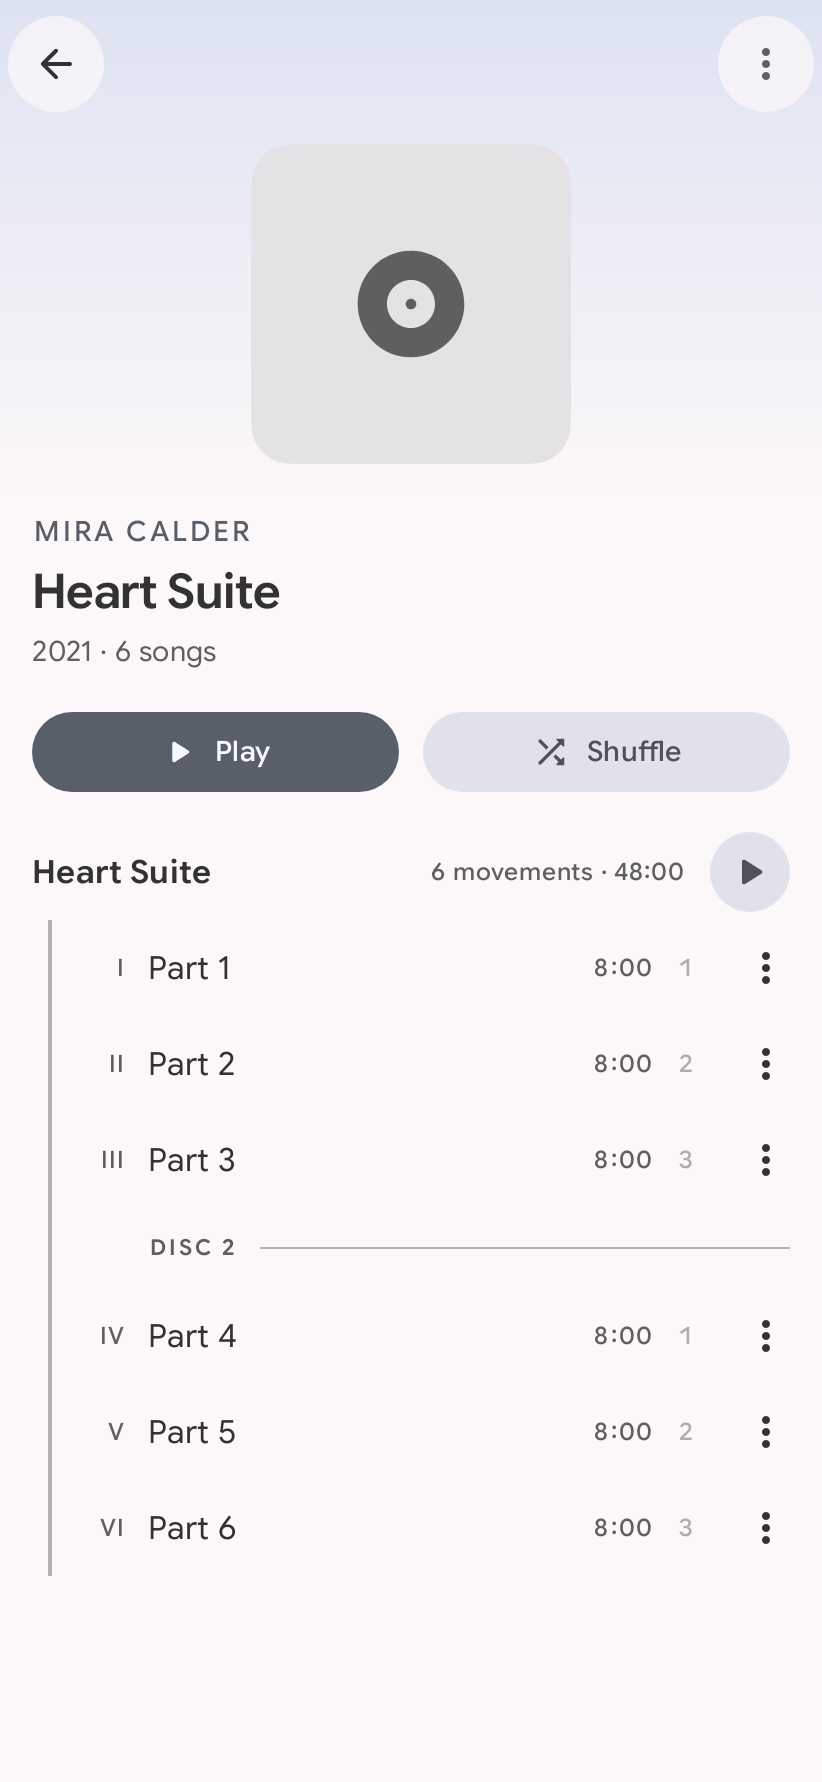
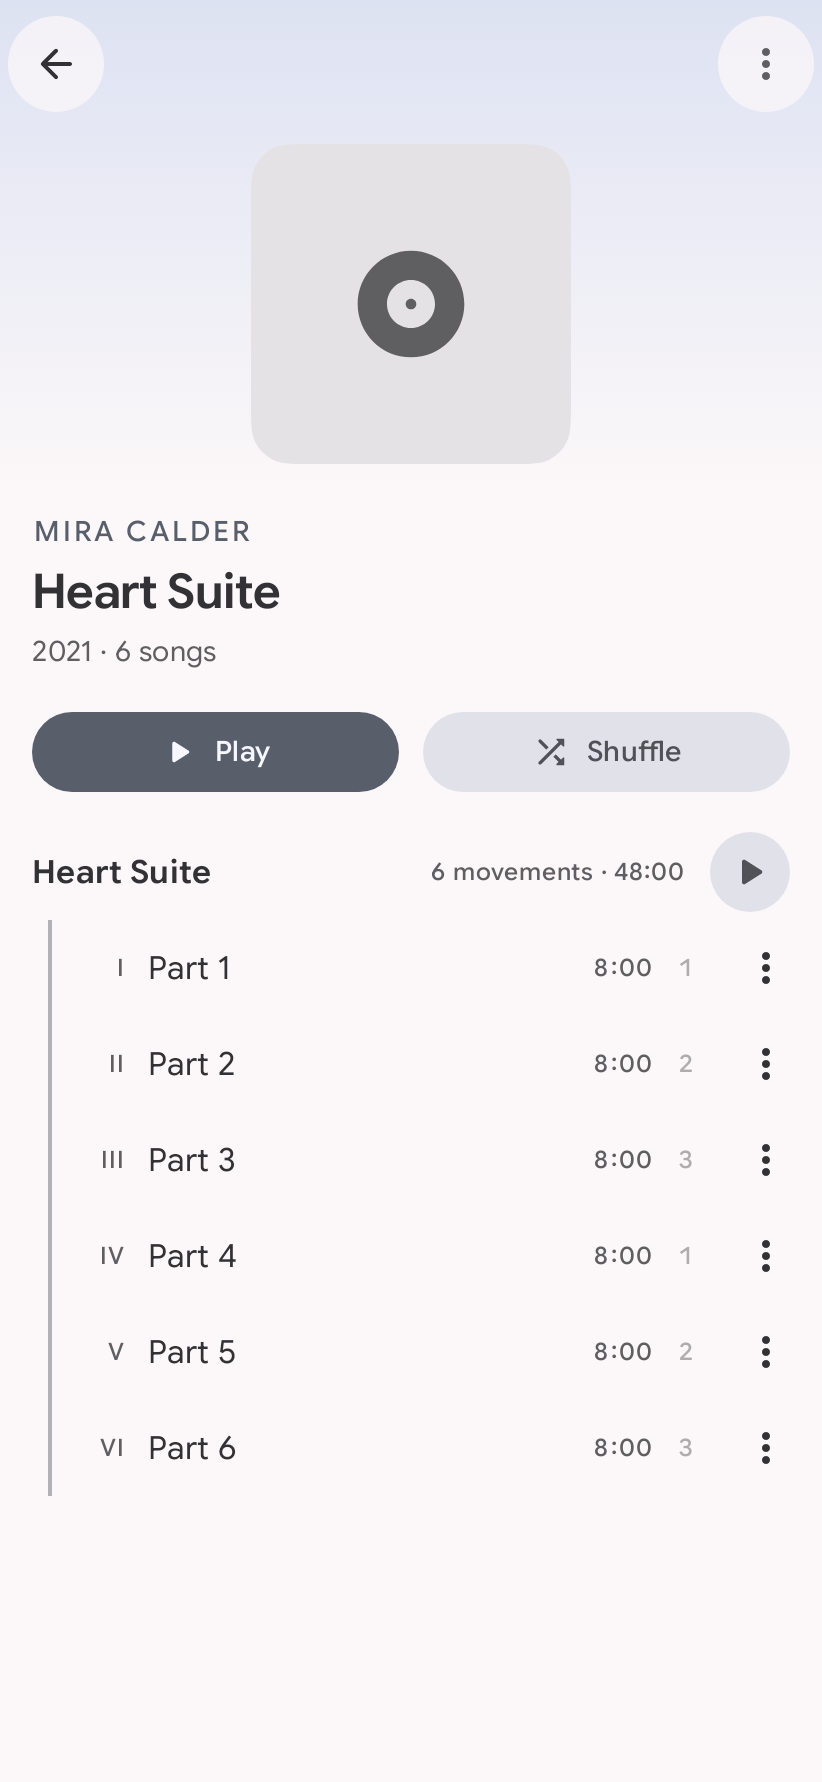
fix(album): no disc divider inside a work
A work spanning two discs reads as one block; dividers stay between works and on non-classical albums. Re-records the split-work album golden.

Changelog: none

diff --git a/android/domain/src/commonMain/kotlin/com/simplecityapps/shuttle/model/WorkBlocks.kt b/android/domain/src/commonMain/kotlin/com/simplecityapps/shuttle/model/WorkBlocks.kt
@@ -13,9 +13,6 @@ data class Movement(val song: Song, val number: Int, val name: String, val numer
     val label: String get() = if (numeral != null) "$numeral. $name" else name
 }
 
-/** A disc change inside a work: a divider goes before the movement at [beforeIndex]. */
-data class DiscBreak(val beforeIndex: Int, val disc: Int)
-
 /** A sub-header ("Act 2") over [movements]; [label] is null for movements before the first act (an overture). */
 data class ActSection(val label: String?, val movements: IntRange)
 
@@ -26,7 +23,6 @@ data class WorkBlock(
     val inferred: Boolean,
     val movements: List<Movement>,
     val numbering: WorkNumbering,
-    val discBreaks: List<DiscBreak>,
     val acts: List<ActSection>,
     val durationMs: Long,
     /** Null when it matches the album's credits. */
@@ -204,10 +200,6 @@ internal fun buildBlock(songs: List<Song>, work: String, inferred: Boolean, albu
         val numeral = if (!repeated && (songs.size > 1 || song.movementNumber != null) && numbering.styleFor(name) != NumeralStyle.None) numbering.format(number) else null
         Movement(song, number, name, numeral)
     }
-    val discBreaks = songs.indices.drop(1).mapNotNull { index ->
-        val disc = songs[index].disc
-        if (disc != null && songs[index - 1].disc != null && disc != songs[index - 1].disc) DiscBreak(index, disc) else null
-    }
     return WorkBlock(
         work = work,
         title = parseWorkTitle(work),
@@ -215,7 +207,6 @@ internal fun buildBlock(songs: List<Song>, work: String, inferred: Boolean, albu
         inferred = inferred,
         movements = movements,
         numbering = numbering,
-        discBreaks = discBreaks,
         acts = actSections(movements),
         durationMs = songs.sumOf { it.duration.toLong() },
         credits = workCreditsLine(songs, albumCredits),

diff --git a/android/designsystem/src/main/java/com/simplecityapps/shuttle/designsystem/component/WorkRows.kt b/android/designsystem/src/main/java/com/simplecityapps/shuttle/designsystem/component/WorkRows.kt
@@ -177,28 +177,6 @@ fun MovementRow(
     }
 }
 
-/** A disc change in the middle of a work: a quiet small-caps [label] and a hairline, indented with the work's movements and its rule. */
-@Composable
-fun WorkDiscDivider(label: String, modifier: Modifier = Modifier) {
-    Row(
-        modifier = modifier
-            .fillMaxWidth()
-            .defaultMinSize(minHeight = 40.dp)
-            .workRule(accent = false)
-            .padding(start = RuleInset + RuleWidth + S2Spacing.xsmall + NumeralColumn + S2Spacing.smallMedium, end = S2Spacing.medium)
-            .semantics { heading() },
-        verticalAlignment = Alignment.CenterVertically,
-        horizontalArrangement = Arrangement.spacedBy(S2Spacing.smallMedium),
-    ) {
-        Text(
-            text = label.uppercase(),
-            style = MaterialTheme.typography.labelSmall.copy(letterSpacing = 1.5.sp, fontWeight = FontWeight.SemiBold),
-            color = MaterialTheme.colorScheme.onSurfaceVariant,
-        )
-        HorizontalDivider(Modifier.weight(1f), color = MaterialTheme.colorScheme.outlineVariant)
-    }
-}
-
 @Preview
 @Composable
 private fun WorkRowsPreview() {
@@ -207,7 +185,6 @@ private fun WorkRowsPreview() {
             WorkHeaderRow(title = "Sonata No. 3", detail = "C minor · Op. 10", meta = "3 movements · 24:10", credits = "Ines Varga", onPlay = {}, onClick = {})
             MovementRow(numeral = "I", name = "Allegro", duration = "8:02", trackNumber = 1, onClick = {})
             MovementRow(numeral = "II", name = "Adagio", duration = "9:30", trackNumber = 2, playing = true, onClick = {})
-            WorkDiscDivider("Disc 2")
             MovementRow(numeral = "III", name = "Finale", duration = "6:38", trackNumber = 3, onClick = {})
         }
     }

diff --git a/android/presentation/src/commonMain/kotlin/com/simplecityapps/shuttle/ui/screens/library/albums/detail/AlbumRows.kt b/android/presentation/src/commonMain/kotlin/com/simplecityapps/shuttle/ui/screens/library/albums/detail/AlbumRows.kt
@@ -53,8 +53,7 @@ sealed interface AlbumRow {
         override val key get() = "act-$firstSongId"
     }
 
-    /** [inWork] is a disc change in the middle of a work, drawn with the work's movements. */
-    data class DiscDivider(val disc: Int, val firstSongId: Long, val inWork: Boolean = false) : AlbumRow {
+    data class DiscDivider(val disc: Int, val firstSongId: Long) : AlbumRow {
         override val key get() = "disc-$firstSongId"
     }
 
@@ -144,7 +143,6 @@ fun buildAlbumRows(songs: List<Song>, albumArtist: String?, currentSongId: Long?
                 )
                 if (!collapsed) {
                     block.movements.forEachIndexed { index, movement ->
-                        block.discBreaks.firstOrNull { it.beforeIndex == index }?.let { rows += AlbumRow.DiscDivider(it.disc, movement.song.id, inWork = true) }
                         block.acts.firstOrNull { it.movements.first == index }?.label?.let { rows += AlbumRow.ActHeader(it, movement.song.id) }
                         rows += AlbumRow.Movement(movement.song, movement.numeral, movement.name, movement.song.id == currentSongId, playIndexes.getValue(movement.song.id))
                     }

diff --git a/android/app/src/main/java/com/simplecityapps/shuttle/ui/screens/library/AlbumDetailScreen.kt b/android/app/src/main/java/com/simplecityapps/shuttle/ui/screens/library/AlbumDetailScreen.kt
@@ -21,7 +21,6 @@ import com.simplecityapps.shuttle.designsystem.component.S2Action
 import com.simplecityapps.shuttle.designsystem.component.SectionHeader
 import com.simplecityapps.shuttle.designsystem.component.SectionHeaderStyle
 import com.simplecityapps.shuttle.designsystem.component.SongRow
-import com.simplecityapps.shuttle.designsystem.component.WorkDiscDivider
 import com.simplecityapps.shuttle.designsystem.component.WorkHeaderRow
 import com.simplecityapps.shuttle.designsystem.theme.ArtworkTheme
 import com.simplecityapps.shuttle.designsystem.theme.S2Spacing
@@ -161,10 +160,7 @@ private fun LazyListScope.classicalRows(
 
             is AlbumRow.ActHeader -> SectionHeader(title = row.label, style = SectionHeaderStyle.Label)
 
-            is AlbumRow.DiscDivider -> {
-                val label = stringResource(R.string.album_detail_disc, row.disc)
-                if (row.inWork) WorkDiscDivider(label) else SectionHeader(title = label)
-            }
+            is AlbumRow.DiscDivider -> SectionHeader(title = stringResource(R.string.album_detail_disc, row.disc))
 
             is AlbumRow.WorkHeader -> WorkHeaderRow(
                 title = row.title,

diff --git a/android/presentation/src/commonTest/kotlin/com/simplecityapps/shuttle/ui/screens/library/albums/detail/AlbumRowsTest.kt b/android/presentation/src/commonTest/kotlin/com/simplecityapps/shuttle/ui/screens/library/albums/detail/AlbumRowsTest.kt
@@ -121,7 +121,7 @@ class AlbumRowsTest {
     }
 
     @Test
-    fun `a disc change inside a work gets a divider before its movement`() {
+    fun `a disc change inside a work gets no divider`() {
         val songs = listOf(
             movement("Sonata No. 3 in C minor, Op. 10", "I. Allegro", track = 1, disc = 1),
             movement("Sonata No. 3 in C minor, Op. 10", "II. Adagio", track = 2, disc = 1),
@@ -130,9 +130,7 @@ class AlbumRowsTest {
 
         val rows = buildAlbumRows(songs, albumArtist = "Ines Varga", currentSongId = null, toggled = emptySet())!!.rows
 
-        rows.map { it::class.simpleName } shouldBe listOf("WorkHeader", "Movement", "Movement", "DiscDivider", "Movement")
-        (rows[3] as AlbumRow.DiscDivider).disc shouldBe 2
-        (rows[3] as AlbumRow.DiscDivider).inWork shouldBe true
+        rows.map { it::class.simpleName } shouldBe listOf("WorkHeader", "Movement", "Movement", "Movement")
     }
 
     @Test

diff --git a/android/domain/src/commonTest/kotlin/com/simplecityapps/shuttle/model/WorkBlocksTest.kt b/android/domain/src/commonTest/kotlin/com/simplecityapps/shuttle/model/WorkBlocksTest.kt
@@ -39,7 +39,7 @@ class WorkBlocksTest {
     }
 
     @Test
-    fun `a block spans a disc break and records it`() {
+    fun `a block spans a disc break`() {
         val songs = listOf(
             movement(1, "Mass in B minor, BWV 232", "Kyrie", 1, disc = 1),
             movement(2, "Mass in B minor, BWV 232", "Gloria", 2, disc = 1),
@@ -47,7 +47,7 @@ class WorkBlocksTest {
             movement(4, "Mass in B minor, BWV 232", "Sanctus", 4, disc = 2)
         )
         val block = (groupWorks(songs).single() as AlbumItem.Work).block
-        block.discBreaks shouldBe listOf(DiscBreak(2, 2))
+        block.movementCount shouldBe 4
         block.title.catalogue shouldBe "BWV 232"
         block.title.key shouldBe null
         block.title.core shouldBe "Mass in B minor"

diff --git a/android/domain/src/commonTest/kotlin/com/simplecityapps/shuttle/model/RealAlbumTagsTest.kt b/android/domain/src/commonTest/kotlin/com/simplecityapps/shuttle/model/RealAlbumTagsTest.kt
@@ -188,10 +188,9 @@ class RealAlbumTagsTest {
     }
 
     @Test
-    fun `Mahler is one symphony of 11 with the disc break inside when the album artist is the full name`() {
+    fun `Mahler is one symphony of 11 across both discs when the album artist is the full name`() {
         val blocks = blocks(mahler(albumArtist = "Gustav Mahler"))
         blocks.map { it.movementCount } shouldBe listOf(11)
-        blocks.single().discBreaks.map { it.disc } shouldBe listOf(2)
     }
 
     @Test
